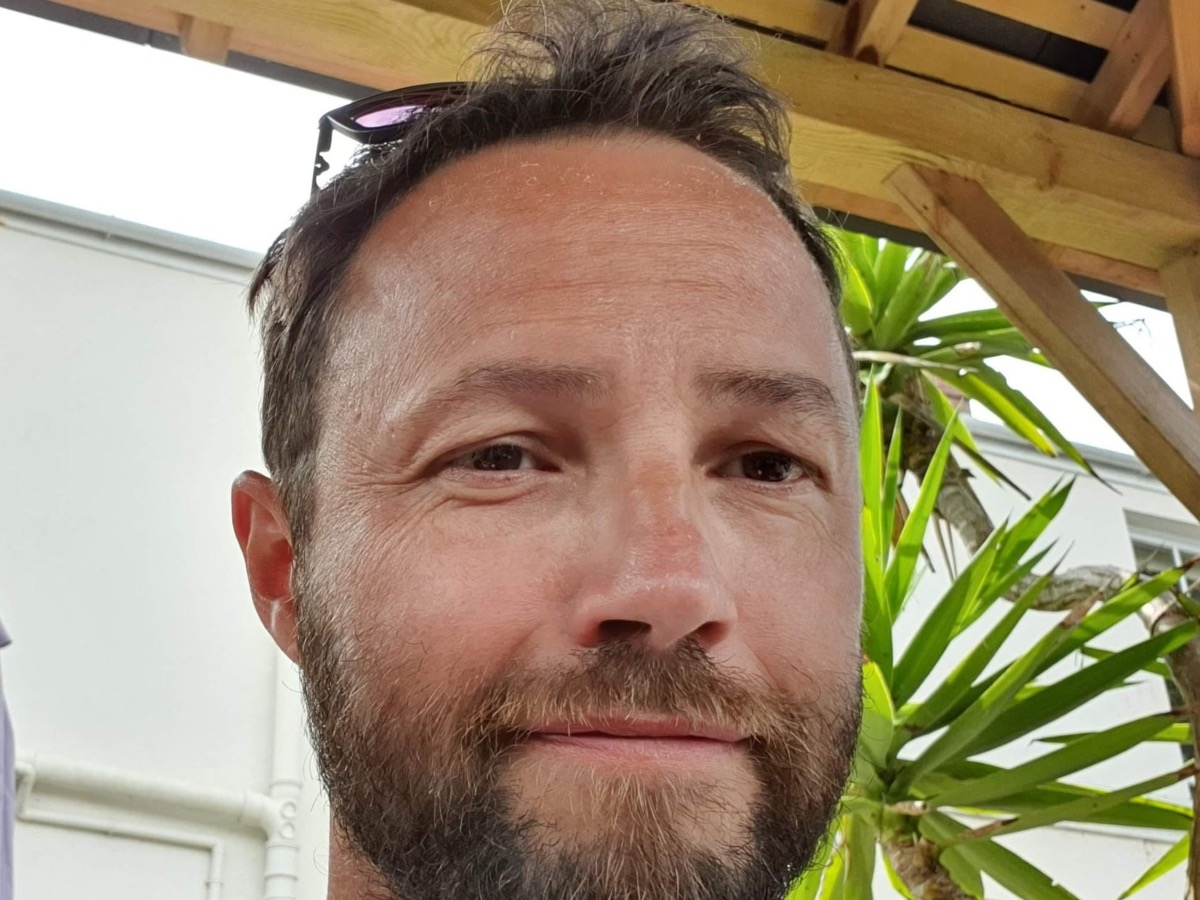
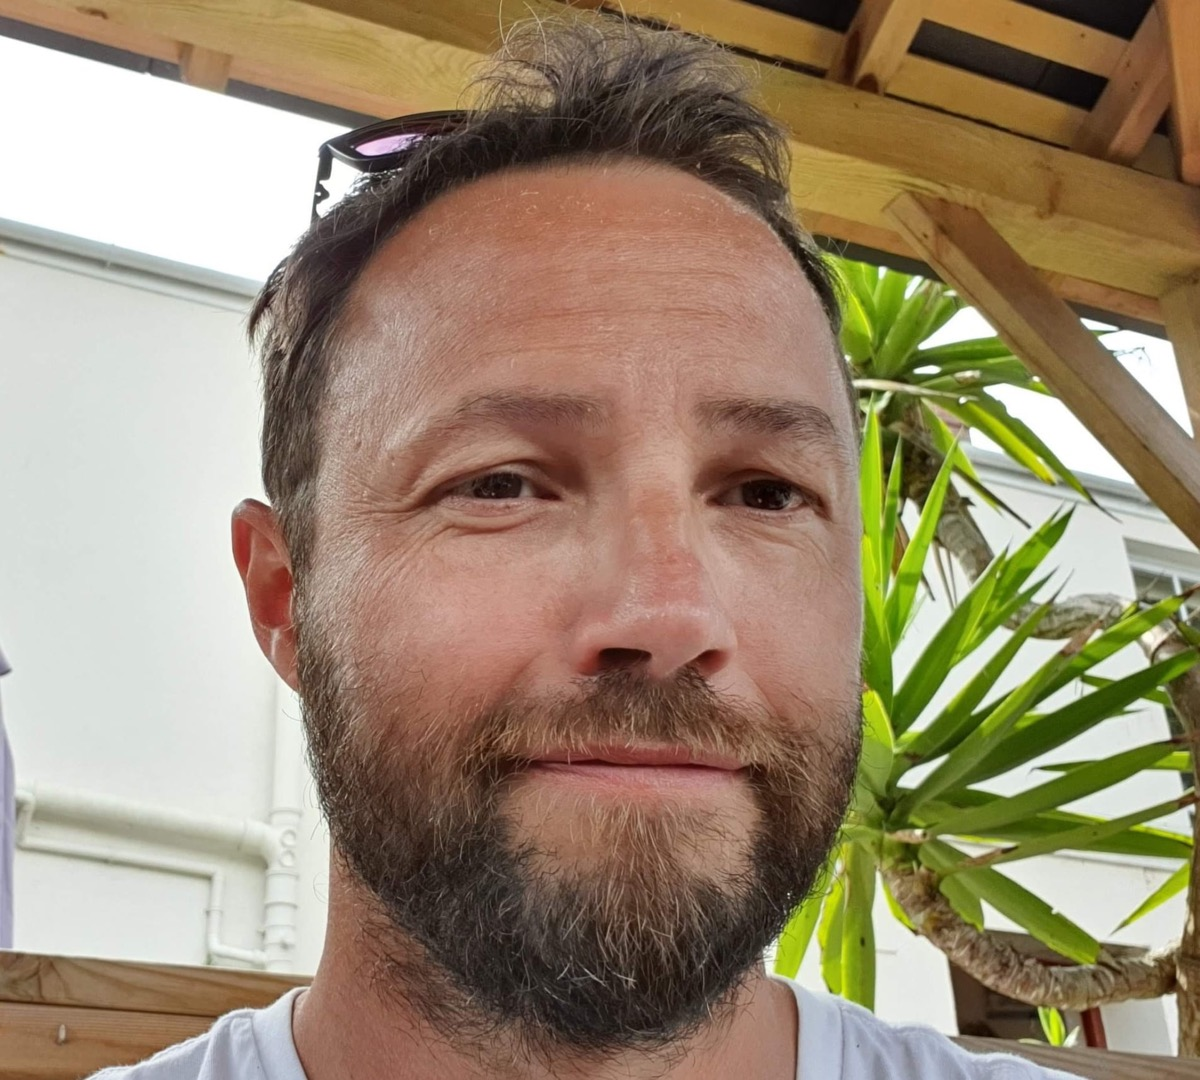
Team photos at measured 10:9: Grant's full beard finally in frame

diff --git a/about.html b/about.html
@@ -93,9 +93,10 @@
       </section>
 
       <!-- THE FOUNDERS — the center of the page. Each member is a ruled row:
-           a uniform landscape photograph (1200 by 900, cropped by hand from
-           the originals so every frame matches; 4:3 is the widest ratio that
-           holds Grant's whole head, chin included) beside the bio. Landscape
+           a uniform photograph (1200 by 1080, cropped by hand from the
+           originals so every frame matches; 10:9 is the widest ratio that
+           holds Grant's whole head, measured to the tip of his beard, with
+           margin) beside the bio. Landscape
            rather than portrait is deliberate: the wide frames give the rows a
            calm, editorial rhythm no other page has. Sam's dog stays in frame
            on purpose, and the bio's closing line makes the choice read as
@@ -107,10 +108,10 @@
           <ul class="member-list" role="list">
             <li class="member">
               <img
-                src="team/grant.jpg?v=2"
+                src="team/grant.jpg?v=3"
                 alt="Grant Broome smiling in close-up under a wooden pergola, sunglasses pushed up on his head, greenery behind him."
                 width="1200"
-                height="900"
+                height="1080"
                 loading="lazy"
               />
               <div class="member-bio">
@@ -134,10 +135,10 @@
             </li>
             <li class="member">
               <img
-                src="team/shadab.jpg?v=2"
+                src="team/shadab.jpg?v=3"
                 alt="Shadab Saifi in a navy suit and open-collared white shirt, smiling in a studio portrait against a gray backdrop."
                 width="1200"
-                height="900"
+                height="1080"
                 loading="lazy"
               />
               <div class="member-bio">
@@ -168,10 +169,10 @@
             </li>
             <li class="member">
               <img
-                src="team/sam.jpg?v=2"
+                src="team/sam.jpg?v=3"
                 alt="Sam Donnelly standing on a garden path in autumn, smiling, holding his small gray dog in one arm."
                 width="1200"
-                height="900"
+                height="1080"
                 loading="lazy"
               />
               <div class="member-bio">
